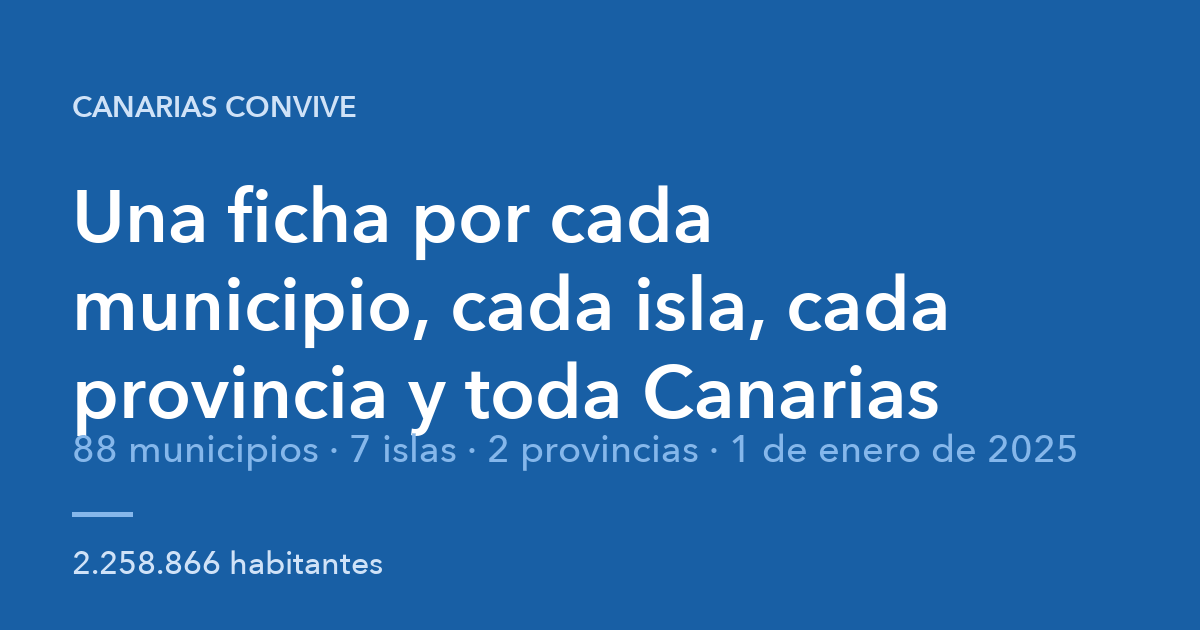
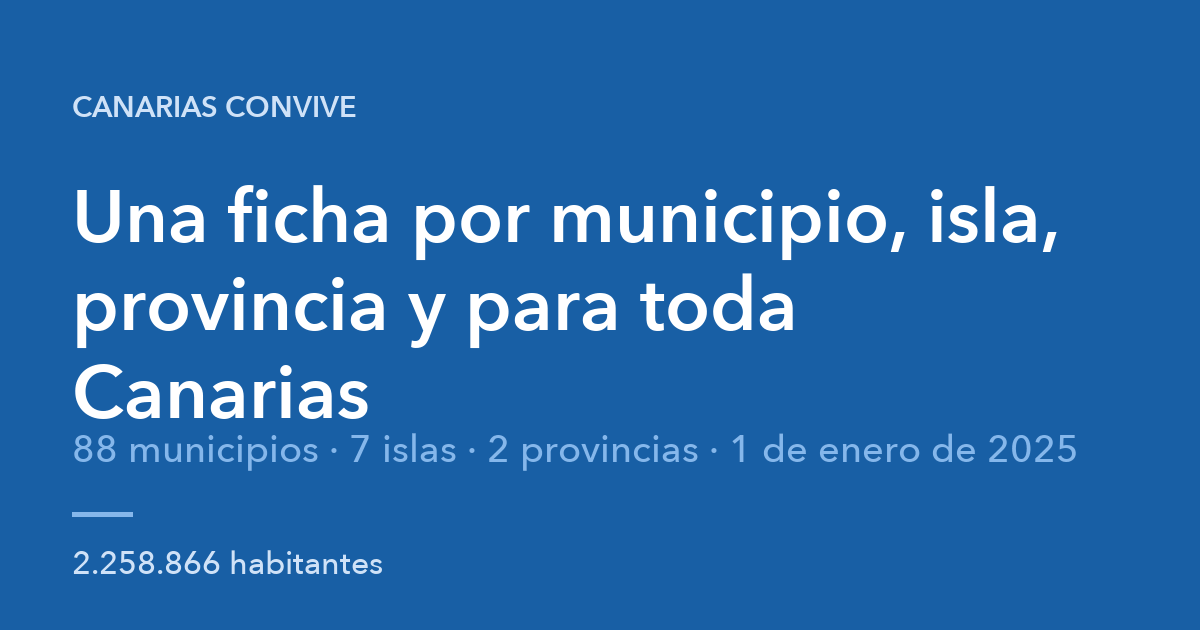
Portada: titular de Pedro y banda de Canarias sin cifras (v=97)
- El titular pasa a «Una ficha por municipio, isla, provincia y para toda
  Canarias», también en la tarjeta og de la portada.
- La banda de Canarias deja de repetir los habitantes y «toda la comunidad
  autónoma»: la cabecera ya da esas cifras. Queda la silueta, «Canarias» y
  «Ver la ficha».
- estilos.css sin la regla del texto retirado; prueba de portada y README al día.

Changed region(s): [[0.0617, 0.4222, 0.8017, 0.573], [0.0617, 0.573, 0.8017, 0.6937], [0.4625, 0.3016, 0.8942, 0.4222]]

diff --git a/web/index.html b/web/index.html
@@ -20,7 +20,7 @@
 <link rel="icon" href="img/icono-32.png" sizes="32x32">
 <link rel="icon" href="img/icono-180.png" sizes="180x180">
 <link rel="apple-touch-icon" href="img/icono-180.png">
-<link rel="stylesheet" href="estilos.css?v=96">
+<link rel="stylesheet" href="estilos.css?v=97">
 </head>
 <body>
 
@@ -34,7 +34,7 @@
       </div>
       <div class="tapa-cuerpo">
         <div class="tapa-texto ent">
-          <h1>Una ficha por cada municipio, cada isla, cada provincia y toda Canarias</h1>
+          <h1>Una ficha por municipio, isla, provincia y para toda Canarias</h1>
         </div>
         <div class="tapa-datos" id="tapa-datos"></div>
       </div>
@@ -71,9 +71,9 @@
 <!-- Sin JavaScript la clase «espera» no se retiraría nunca: aquí se anula (y si un
      script no llega a cargar, comun.js la retira). -->
 <noscript><style>.tapa.espera .ent { opacity: 1; }</style></noscript>
-<script src="config.js?v=96"></script>
-<script src="comun.js?v=96"></script>
-<script src="iconos.js?v=96"></script>
-<script src="portada.js?v=96"></script>
+<script src="config.js?v=97"></script>
+<script src="comun.js?v=97"></script>
+<script src="iconos.js?v=97"></script>
+<script src="portada.js?v=97"></script>
 </body>
 </html>

diff --git a/web/portada.js b/web/portada.js
@@ -153,12 +153,12 @@ function silueta(suyos, w, h) {
 
 function montarIslas() {
   const cont = document.getElementById('islas');
-  // Canarias entera, arriba; el rótulo de cada provincia lleva a su ficha y
-  // encabeza sus islas (el orden de indice.json las deja contiguas).
+  // Canarias entera, arriba, sin cifras (las de la cabecera ya son las suyas);
+  // el rótulo de cada provincia lleva a su ficha y encabeza sus islas (el
+  // orden de indice.json las deja contiguas).
   const banda = document.getElementById('banda-canarias');
   banda.innerHTML = `<span class="canarias-silueta">${silueta(GEO.features, 120, 40)}</span>`
-    + `<b>Canarias</b><span>${nf(INDICE.poblacion_canarias)} habitantes · toda la comunidad autónoma</span>`
-    + `<em>Ver la ficha ${icono('desplegar', 14, 'ico galon')}</em>`;
+    + `<b>Canarias</b><em>Ver la ficha ${icono('desplegar', 14, 'ico galon')}</em>`;
   cont.innerHTML = INDICE.provincias.map((p, n) => `
     <a class="provincia-cab ent" style="--n:${n}" href="${enlaceFicha({ tipo: 'provincia', slug: p.slug })}">
       <b>${esc(p.nombre)}</b><span>${p.islas.length} islas · ${nf(p.poblacion)} habitantes</span>${icono('desplegar', 14, 'ico galon')}

diff --git a/web/dossier.html b/web/dossier.html
@@ -10,8 +10,8 @@
 <link rel="icon" href="img/icono-180.png" sizes="180x180">
 <link rel="apple-touch-icon" href="img/icono-180.png">
 <meta name="robots" content="noindex">
-<link rel="stylesheet" href="estilos.css?v=96">
-<link rel="stylesheet" href="dossier.css?v=96">
+<link rel="stylesheet" href="estilos.css?v=97">
+<link rel="stylesheet" href="dossier.css?v=97">
 </head>
 <body class="d-body">
 
@@ -31,12 +31,12 @@
 <!-- En pantallas estrechas la hoja desborda y dossier.js la hace enfocable para desplazarla con el teclado. -->
 <main id="dossier" aria-label="Hojas del dossier"></main>
 
-<script src="config.js?v=96"></script>
-<script src="comun.js?v=96"></script>
-<script src="iconos.js?v=96"></script>
-<script src="datos-ui.js?v=96"></script>
-<script src="ficha.js?v=96"></script>
-<script src="guia.js?v=96"></script>
-<script src="dossier.js?v=96"></script>
+<script src="config.js?v=97"></script>
+<script src="comun.js?v=97"></script>
+<script src="iconos.js?v=97"></script>
+<script src="datos-ui.js?v=97"></script>
+<script src="ficha.js?v=97"></script>
+<script src="guia.js?v=97"></script>
+<script src="dossier.js?v=97"></script>
 </body>
 </html>

diff --git a/web/comparar.html b/web/comparar.html
@@ -20,7 +20,7 @@
 <link rel="icon" href="img/icono-32.png" sizes="32x32">
 <link rel="icon" href="img/icono-180.png" sizes="180x180">
 <link rel="apple-touch-icon" href="img/icono-180.png">
-<link rel="stylesheet" href="estilos.css?v=96">
+<link rel="stylesheet" href="estilos.css?v=97">
 </head>
 <body>
 
@@ -124,10 +124,10 @@
 
 </main>
 
-<script src="config.js?v=96"></script>
-<script src="comun.js?v=96"></script>
-<script src="iconos.js?v=96"></script>
-<script src="datos-ui.js?v=96"></script>
-<script src="comparar.js?v=96"></script>
+<script src="config.js?v=97"></script>
+<script src="comun.js?v=97"></script>
+<script src="iconos.js?v=97"></script>
+<script src="datos-ui.js?v=97"></script>
+<script src="comparar.js?v=97"></script>
 </body>
 </html>

diff --git a/web/ficha.html b/web/ficha.html
@@ -20,7 +20,7 @@
 <link rel="icon" href="img/icono-32.png" sizes="32x32">
 <link rel="icon" href="img/icono-180.png" sizes="180x180">
 <link rel="apple-touch-icon" href="img/icono-180.png">
-<link rel="stylesheet" href="estilos.css?v=96">
+<link rel="stylesheet" href="estilos.css?v=97">
 </head>
 <body>
 
@@ -173,10 +173,10 @@
 
 </main>
 
-<script src="config.js?v=96"></script>
-<script src="comun.js?v=96"></script>
-<script src="iconos.js?v=96"></script>
-<script src="datos-ui.js?v=96"></script>
-<script src="ficha.js?v=96"></script>
+<script src="config.js?v=97"></script>
+<script src="comun.js?v=97"></script>
+<script src="iconos.js?v=97"></script>
+<script src="datos-ui.js?v=97"></script>
+<script src="ficha.js?v=97"></script>
 </body>
 </html>

diff --git a/web/estilos.css b/web/estilos.css
@@ -479,7 +479,6 @@ select {
 .canarias-silueta path { fill: var(--azul-claro); stroke: var(--azul-claro); stroke-width: .6; transition: fill .2s, stroke .2s; }
 .canarias-banda:hover .canarias-silueta path { fill: var(--azul); stroke: var(--azul); }
 .canarias-banda b { font-size: 16px; font-weight: 700; letter-spacing: -.01em; }
-.canarias-banda > span { font-size: 12.5px; color: var(--gris); font-variant-numeric: tabular-nums; }
 .canarias-banda em, .provincia-cab .galon { margin-left: auto; }
 .canarias-banda em { font-style: normal; font-size: 13px; font-weight: 600; color: var(--azul); display: inline-flex; align-items: center; gap: 4px; white-space: nowrap; }
 .canarias-banda .galon, .provincia-cab .galon { transform: rotate(-90deg); }

diff --git a/web/guia.html b/web/guia.html
@@ -20,7 +20,7 @@
 <link rel="icon" href="img/icono-32.png" sizes="32x32">
 <link rel="icon" href="img/icono-180.png" sizes="180x180">
 <link rel="apple-touch-icon" href="img/icono-180.png">
-<link rel="stylesheet" href="estilos.css?v=96">
+<link rel="stylesheet" href="estilos.css?v=97">
 </head>
 <body>
 
@@ -48,9 +48,9 @@
 
 </main>
 
-<script src="config.js?v=96"></script>
-<script src="comun.js?v=96"></script>
-<script src="iconos.js?v=96"></script>
-<script src="guia.js?v=96"></script>
+<script src="config.js?v=97"></script>
+<script src="comun.js?v=97"></script>
+<script src="iconos.js?v=97"></script>
+<script src="guia.js?v=97"></script>
 </body>
 </html>

diff --git a/generar_tarjetas.py b/generar_tarjetas.py
@@ -211,7 +211,7 @@ def tarjeta_portada(idx):
 
     f = tf("demi", 74)
     y = 168
-    for ln in partir(d, "Una ficha por cada municipio, cada isla, cada provincia y toda Canarias", f, 1000):
+    for ln in partir(d, "Una ficha por municipio, isla, provincia y para toda Canarias", f, 1000):
         d.text((72, y), ln, font=f, fill=BLANCO)
         y += 88
 

diff --git a/README.md b/README.md
@@ -413,25 +413,25 @@ pestaña se llama «Canarias»), el gráfico de origen extranjero sin la línea
 de Canarias y el lugar de nacimiento con un solo anillo; la evolución va de
 2000 a 2025, como en las islas y las provincias.
 
-**La portada son Canarias, las dos provincias y las siete islas.** Arriba,
-la banda de Canarias entera (silueta del archipiélago, habitantes y «Ver la
-ficha»); debajo, el rótulo de cada provincia, con sus islas y sus habitantes,
-sobre sus tarjetas: una por isla, las siete iguales y en una fila (en el
-móvil, apaisadas en una columna, cada provincia con las suyas debajo), cada
-una con su silueta dibujada con los mismos límites municipales fundidos
-(`portada.js`), su nombre y cuántos municipios tiene. Es una sola retícula
-de siete columnas, con los rótulos en la primera fila (cuatro y tres
-columnas) y las tarjetas en la segunda, así miden exactamente lo mismo. La
-tarjeta despliega la lista de fichas de esa isla: la isla entera primero, en
-azul, y debajo cada municipio por orden alfabético; los siete desplegables
-miden lo mismo, como pidió Pedro para las listas de isla, y el de las
-tarjetas del extremo se alinea a la derecha para no salirse de la tapa. La
-opción señalada va en claro con una marca azul, para que el azul pleno sea
-solo el de la isla entera. El buscador encuentra Canarias, provincias, islas
-y municipios: los que empiezan por lo tecleado antes que los que solo lo
-contienen y, a igualdad, del ámbito mayor al menor. Se probó antes un mapa
-grande del archipiélago con pestañas y un panel; Diego prefirió las
-tarjetas, más limpias y del mismo tamaño.
+**La portada son Canarias, las dos provincias y las siete islas.** Arriba, la
+banda de Canarias entera (silueta del archipiélago, «Canarias» y «Ver la
+ficha», sin cifras: las de la cabecera ya son las suyas); debajo, el rótulo
+de cada provincia, con sus islas y sus habitantes, sobre sus tarjetas: una
+por isla, las siete iguales y en una fila (en el móvil, apaisadas en una
+columna, cada provincia con las suyas debajo), cada una con su silueta
+dibujada con los mismos límites municipales fundidos (`portada.js`), su
+nombre y cuántos municipios tiene. Es una sola retícula de siete columnas,
+con los rótulos en la primera fila (cuatro y tres columnas) y las tarjetas en
+la segunda, así miden exactamente lo mismo. La tarjeta despliega la lista de
+fichas de esa isla: la isla entera primero, en azul, y debajo cada municipio
+por orden alfabético; los siete desplegables miden lo mismo, como pidió Pedro
+para las listas de isla, y el de las tarjetas del extremo se alinea a la
+derecha para no salirse de la tapa. La opción señalada va en claro con una
+marca azul, para que el azul pleno sea solo el de la isla entera. El buscador
+encuentra Canarias, provincias, islas y municipios: los que empiezan por lo
+tecleado antes que los que solo lo contienen y, a igualdad, del ámbito mayor
+al menor. Se probó antes un mapa grande del archipiélago con pestañas y un
+panel; Diego prefirió las tarjetas, más limpias y del mismo tamaño.
 
 **Anillo para el lugar de nacimiento.** Municipio y Canarias, uno al lado del
 otro, con el reparto escrito debajo.
